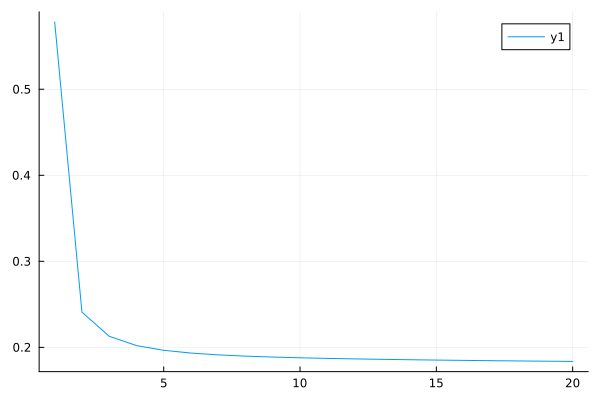
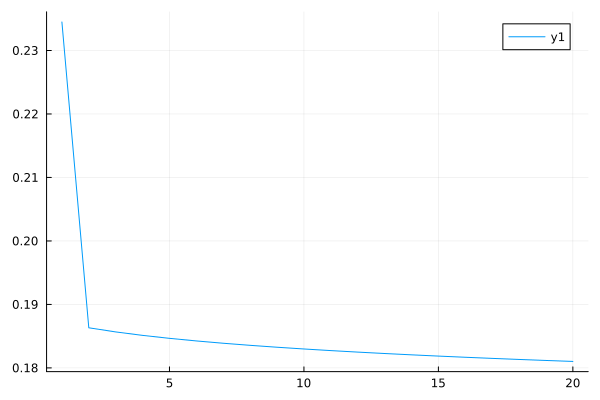
Working!! The parity of should be 1 for adj backprop!

diff --git a/main.py b/main.py
@@ -44,7 +44,7 @@ def print_gradient_update_crn(k1="k1", k2="k2", P = "P", G="G", dims=[], title='
 
 
 if __name__ == '__main__':
-    D = 3
+    D = 2
     z = ode.Matrix2D(symbol='z', dims=[D, 1])
     p = ode.Matrix2D(symbol='p', dims=[D, D])
     p.matrix()
@@ -98,6 +98,7 @@ if __name__ == '__main__':
         )
     bwd_g_ode = ode.ODESystem(lhs=gg, rhs=[aT, dfdtheta], parity=1)
     bwd_g_crn = bwd_g_ode.dual_rail_crn()
+    lcs = list(set(utils.print_crn(bwd_g_crn, "CRN for gradient backprop")))
     print("end")
 
     print("\n\n")
